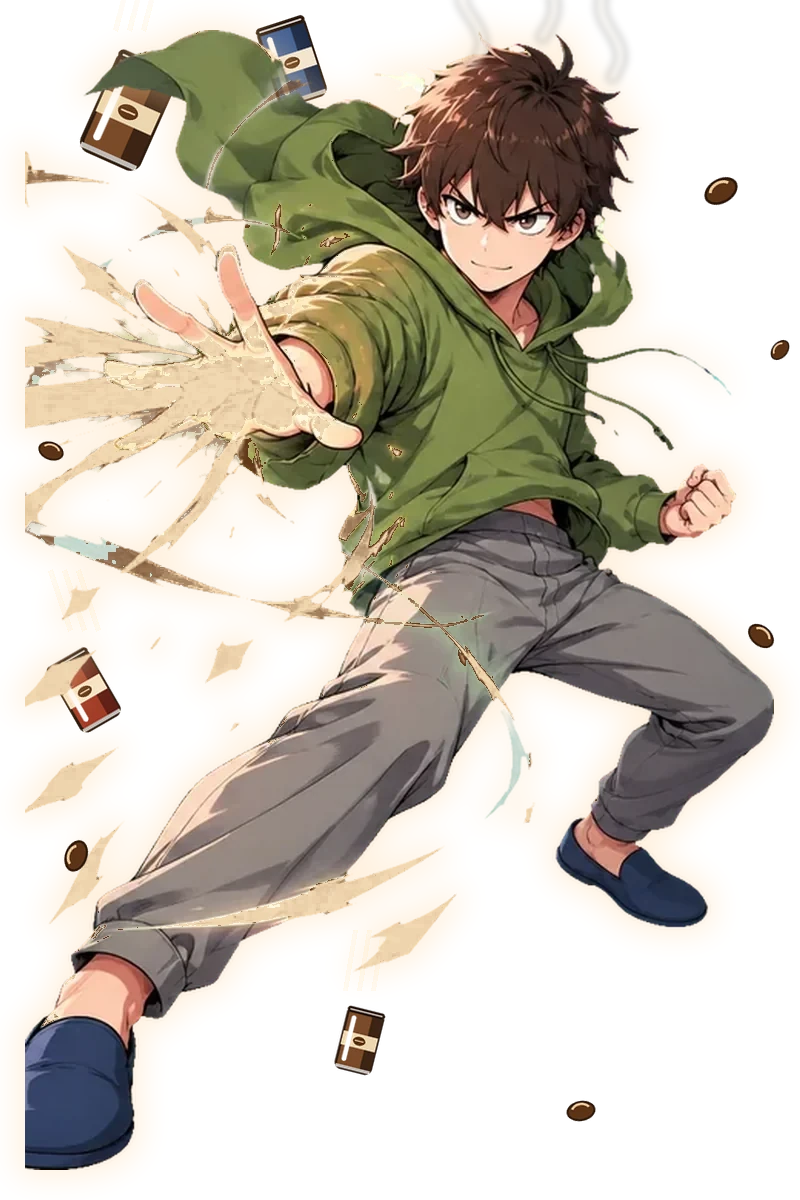
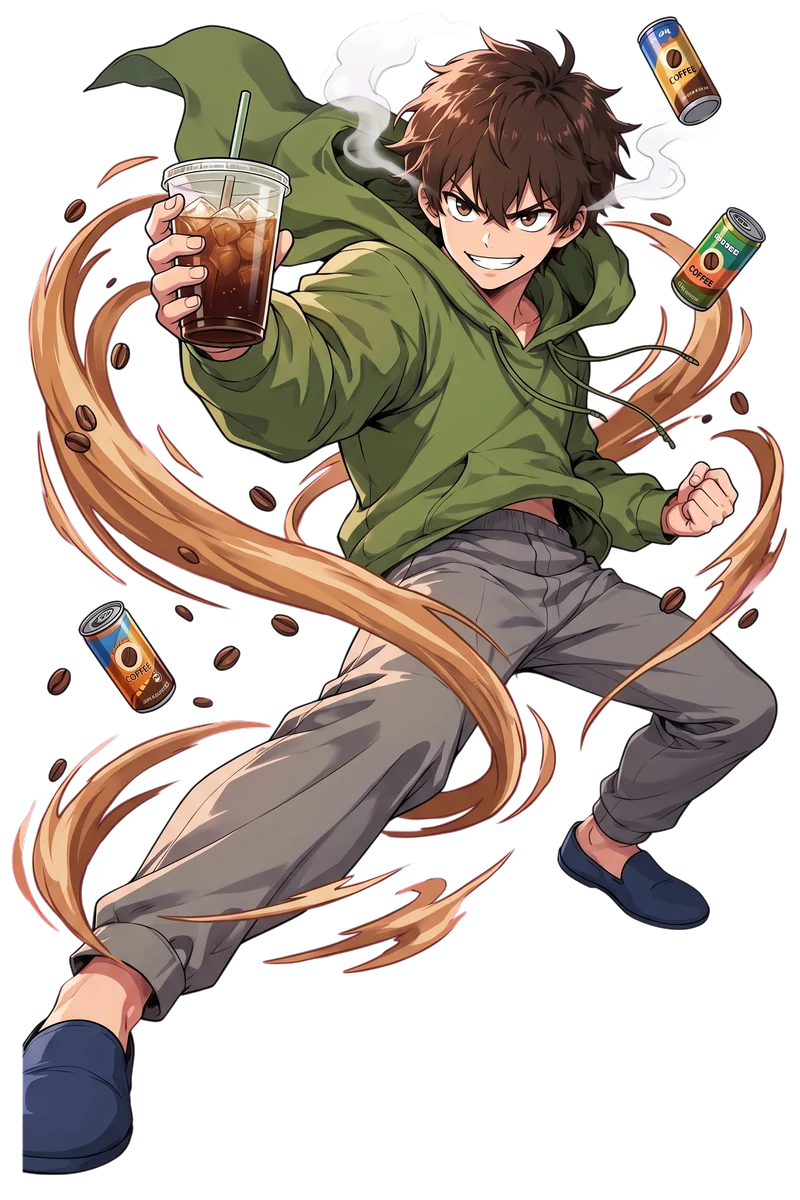
문동한 「카페인 풀충전」 그림 새로 (Gemini): 변신 8칸 · 캔커피 던지기 8칸 · 풀충전 모습 · 도감 전신
- 아아 원샷 → 눈 번쩍 → 커피색 오라 · 김 (갈색 머리 그대로, 초사이언 느낌 없음)
- 던지기 띠: 5칸째(인덱스 5)에 캔이 손을 떠남 (기존 타이밍 그대로) · 발 기준선 237 · 256 칸
- ART_VER 에 6개 경로 추가 (?v=2) · index.html ?v= 올림

Claude-Session: https://claude.ai/code/session_016zscpnQTe5fAmJRC7J2Wse

diff --git a/public/langbang/index.html b/public/langbang/index.html
@@ -28,14 +28,14 @@
   <link rel="stylesheet" href="https://cdn.jsdelivr.net/gh/orioncactus/pretendard@v1.3.9/dist/web/variable/pretendardvariable-dynamic-subset.min.css">
   <style>#bootld{position:fixed;inset:0;z-index:90;background:#0b0a16;display:grid;place-items:end center;transition:opacity .35s}#bootld .bl-bg{position:absolute;inset:0;width:100%;height:100%;object-fit:cover;opacity:.55}#bootld.out{opacity:0;pointer-events:none}</style>
   <link rel="preload" as="image" href="/img/lb/title_poster.jpg?v=3" fetchpriority="high">
-  <link rel="stylesheet" href="/langbang/style.css?v=20261010m">
-  <link rel="stylesheet" href="/langbang/friends.css?v=20261010m">
-  <link rel="stylesheet" href="/langbang/tower.css?v=20261010m">
-  <link rel="stylesheet" href="/langbang/raid2.css?v=20261010m">
-  <link rel="stylesheet" href="/langbang/bonkae.css?v=20261010m">
-  <link rel="stylesheet" href="/langbang/transit.css?v=20261010m">
-  <link rel="stylesheet" href="/langbang/tutorial.css?v=20261010m">
-  <link rel="stylesheet" href="/langbang/hw.css?v=20261010m">
+  <link rel="stylesheet" href="/langbang/style.css?v=20261010n">
+  <link rel="stylesheet" href="/langbang/friends.css?v=20261010n">
+  <link rel="stylesheet" href="/langbang/tower.css?v=20261010n">
+  <link rel="stylesheet" href="/langbang/raid2.css?v=20261010n">
+  <link rel="stylesheet" href="/langbang/bonkae.css?v=20261010n">
+  <link rel="stylesheet" href="/langbang/transit.css?v=20261010n">
+  <link rel="stylesheet" href="/langbang/tutorial.css?v=20261010n">
+  <link rel="stylesheet" href="/langbang/hw.css?v=20261010n">
 </head>
 <body>
   <div id="stage">
@@ -100,7 +100,7 @@
     <div id="toast" hidden></div>
   </div>
   <noscript>자바스크립트를 켜야 게임을 할 수 있어요.</noscript>
-  <script type="importmap">{"imports": {"/langbang/game.js": "/langbang/game.js?v=20261010m", "/langbang/season.js": "/langbang/season.js?v=20261010m", "/langbang/data.js": "/langbang/data.js?v=20261010m", "/langbang/sim.js": "/langbang/sim.js?v=20261010m", "/langbang/render.js": "/langbang/render.js?v=20261010m", "/langbang/live.js": "/langbang/live.js?v=20261010m", "/langbang/api.js": "/langbang/api.js?v=20261010m", "/langbang/audio.js": "/langbang/audio.js?v=20261010m", "/langbang/share.js": "/langbang/share.js?v=20261010m", "/langbang/flavor.js": "/langbang/flavor.js?v=20261010m", "/langbang/friends.js": "/langbang/friends.js?v=20261010m", "/langbang/tower.js": "/langbang/tower.js?v=20261010m", "/langbang/tower-ui.js": "/langbang/tower-ui.js?v=20261010m", "/langbang/transit.js": "/langbang/transit.js?v=20261010m", "/langbang/hw-event.js": "/langbang/hw-event.js?v=20261010m", "/langbang/hw-sim.js": "/langbang/hw-sim.js?v=20261010m", "/langbang/hw-ui.js": "/langbang/hw-ui.js?v=20261010m", "/langbang/hw-fx.js": "/langbang/hw-fx.js?v=20261010m"}}</script>
-  <script type="module" src="/langbang/game.js?v=20261010m"></script>
+  <script type="importmap">{"imports": {"/langbang/game.js": "/langbang/game.js?v=20261010n", "/langbang/season.js": "/langbang/season.js?v=20261010n", "/langbang/data.js": "/langbang/data.js?v=20261010n", "/langbang/sim.js": "/langbang/sim.js?v=20261010n", "/langbang/render.js": "/langbang/render.js?v=20261010n", "/langbang/live.js": "/langbang/live.js?v=20261010n", "/langbang/api.js": "/langbang/api.js?v=20261010n", "/langbang/audio.js": "/langbang/audio.js?v=20261010n", "/langbang/share.js": "/langbang/share.js?v=20261010n", "/langbang/flavor.js": "/langbang/flavor.js?v=20261010n", "/langbang/friends.js": "/langbang/friends.js?v=20261010n", "/langbang/tower.js": "/langbang/tower.js?v=20261010n", "/langbang/tower-ui.js": "/langbang/tower-ui.js?v=20261010n", "/langbang/transit.js": "/langbang/transit.js?v=20261010n", "/langbang/hw-event.js": "/langbang/hw-event.js?v=20261010n", "/langbang/hw-sim.js": "/langbang/hw-sim.js?v=20261010n", "/langbang/hw-ui.js": "/langbang/hw-ui.js?v=20261010n", "/langbang/hw-fx.js": "/langbang/hw-fx.js?v=20261010n"}}</script>
+  <script type="module" src="/langbang/game.js?v=20261010n"></script>
 </body>
 </html>

diff --git a/public/langbang/data.js b/public/langbang/data.js
@@ -873,6 +873,7 @@ const ART_READY = new Set(['h_jungmin', 'h_junyoung', 'h_soyoung', 'h_jieun', 'h
 export const ART_VER = {
   h_subin: 2, h_subin_attack: 2, 'dex/subin': 2, 'dexhq/subin': 2, 'dexhq/thumb/subin': 2,
   h_donghan_attack: 2, h_eunok_attack: 2, h_dragon_attack: 2, e_boss_bestman_attack: 2, e_boss_bestman_skill: 2, e_boss_bestman_rage: 2,
+  h_donghan_cafe: 2, h_donghan_cafe_tf: 2, h_donghan_cafe_attack: 2, 'dex/donghan_cafe': 2, 'dexhq/donghan_cafe': 2, 'dexhq/thumb/donghan_cafe': 2, // 문동한 카페인 풀충전 새로 그림 (Gemini)
 };
 export const artV = (u) => { const m = typeof u === 'string' && /^\/img\/lb\/([^?]+)\.webp$/.exec(u); return m && ART_VER[m[1]] ? `${u}?v=${ART_VER[m[1]]}` : u; };
 const ART = (n) => (ART_READY.has(n) ? artV(`/img/lb/${n}.webp`) : '');
